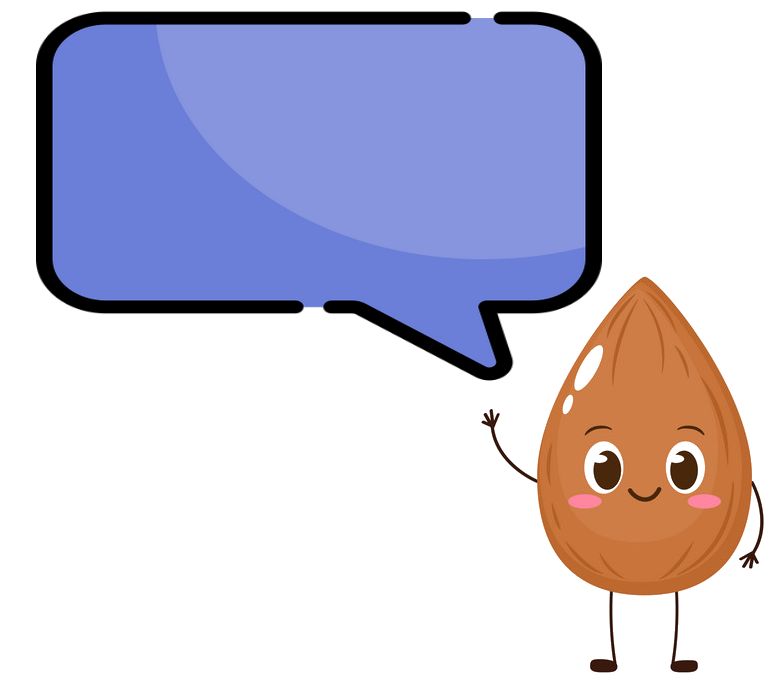
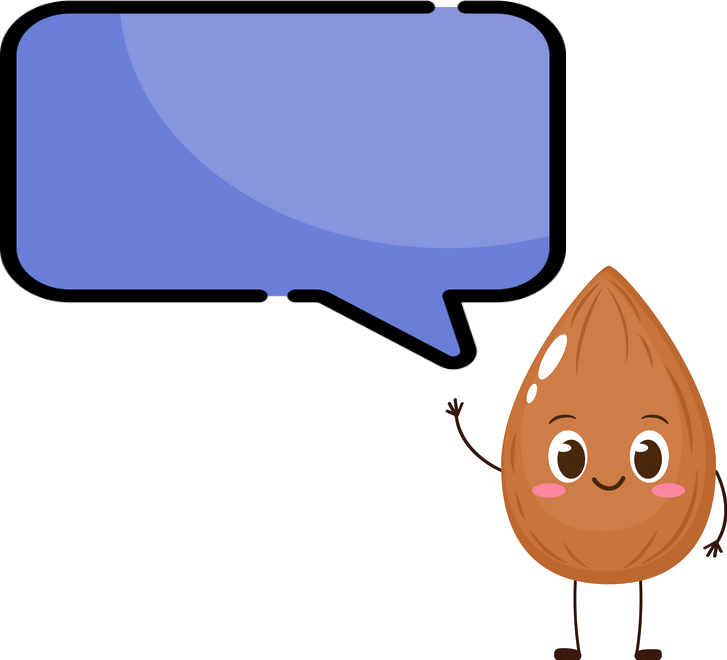
a

diff --git a/scenes/data.js b/scenes/data.js
@@ -53,7 +53,7 @@ let data = [
         upgrade:[0,20000,35000,60000],
         name:'Cochon',
         desc:'Tout est bon dans le cochon',
-        info:'',
+        info:'La population porcine mondiale est estimée à 826 millions de têtes (FAO, 1988). C\'est le porc qui, comparé aux autres espèces domestiques, qui offre la productivité la plus élevée. ',
         climat:['europe']
     },
     {
@@ -63,19 +63,19 @@ let data = [
         buildCost:40000,
         upgrade:[0,20000,35000,60000],
         name:'Vache',
-        desc:'Tout est bon dans la vache',
-        info:'',
-        climat:['europe']
+        desc:'La vache kiri',
+        info:'Permet de fournir de la viande, du lait cru, des peaux, un travail de traction, du fumier, du combustible, des sous-produits et l\'entretien des espaces ouverts',
+        climat:['europe','tropic']
     },
     {
         tag:'sheep',
         type:'animal',
         lvlMax:3,
-        buildCost:40000,
+        buildCost:40000, //moins rentable que l'elevage bovin niveau rendement 
         upgrade:[0,20000,35000,60000],
         name:'Mouton',
-        desc:'Tout est bon dans le mouton',
-        info:'',
+        desc:'BEEEEHHHHH',
+        info:'En plus d\'être élevé pour leurs lait,laine et viande, les moutons donnent une image positive aux paysages urbains. Ils sont un atout fort d’un point de vue touristique',
         climat:['europe']
     },
     {
@@ -86,7 +86,7 @@ let data = [
         upgrade:[0,20000,35000,60000],
         name:'Saumon',
         desc:'Tout est bon dans le saumon',
-        info:'',
+        info:'Le réel avantage de la pisciculture est la protection des ressources halieutiques mondiales qui commencent sérieusement à se raréfier',
         climat:['polaire']
     },
     {
@@ -96,8 +96,8 @@ let data = [
         buildCost:30000,
         upgrade:[0,20000,35000,60000],
         name:'Renne',
-        desc:'Tout est bon dans le renne',
-        info:'',
+        desc:'Les rennes des neiges',
+        info:'aucune',
         climat:['polaire']
     },
     {
@@ -107,10 +107,11 @@ let data = [
         buildCost:30000,
         upgrade:[0,20000,35000,60000],
         name:'Bison',
-        desc:'Tout est bon dans le bison',
-        info:'',
-        climat:['tropic']
+        desc:'YAKARI',
+        info:'Il en existe deux espèces : bisons d\'Europe et le bisons d\'Amerique (ayant comme sous-espèce les bisons des bois et des plaines) majoritairement élevé pour sa viande ',
+        climat:['tropic','europe','polaire']
     },
+
     {
         tag:'chamel',
         type:'animal',
@@ -118,10 +119,11 @@ let data = [
         buildCost:30000,
         upgrade:[0,20000,35000,60000],
         name:'Chameau',
-        desc:'Tout est bon dans le chameau',
-        info:'',
-        climat:['aride']
+        desc:'BLEUBLEU',
+        info:'les chameaux ont une grande capacité à puiser dans leurs réserves d\'énergie lorsque les ressources alimentaires se font rare. Une aubaine face au réchauffement climatique actuel et aux périodes de sécheresse dont l\'élevage européen fait face.',
+        climat:['desert']
     },
+    
 
 
 

diff --git a/scenes/menu.js b/scenes/menu.js
@@ -825,8 +825,8 @@ class Menu extends Phaser.Scene {
 
     seedyAdvice(type, ref, ref2){
         this.scene.pause(this.registry.get('climat')+'Scene');
-        // Seedy 764x673  scale 0.8 => 611.2x538.4
-        let seedy = this.add.image(window.innerWidth - 305.6, window.innerHeight - 269.2, 'seedyAdvice').setScrollFactor(0).setScale(0.8).setOrigin(0.5,0.5);
+        // Seedy 727x660  scale 0.8 => 581.6x528
+        let seedy = this.add.image(window.innerWidth - 290.8 + 40, window.innerHeight - 264 + 40, 'seedyAdvice').setScrollFactor(0).setScale(0.8).setOrigin(0.5,0.5);
         let text = this.add.text(seedy.x - (seedy.width*0.8)/2, seedy.y - (seedy.height*0.8)/2, '', { lineSpacing:7, wordWrap: { width: 284 }, fontSize:17, fontFamily:'monospace', color:'#000000' }).setScrollFactor(0).setOrigin(0,0);
         switch(type){
             case 'lowMeal':
